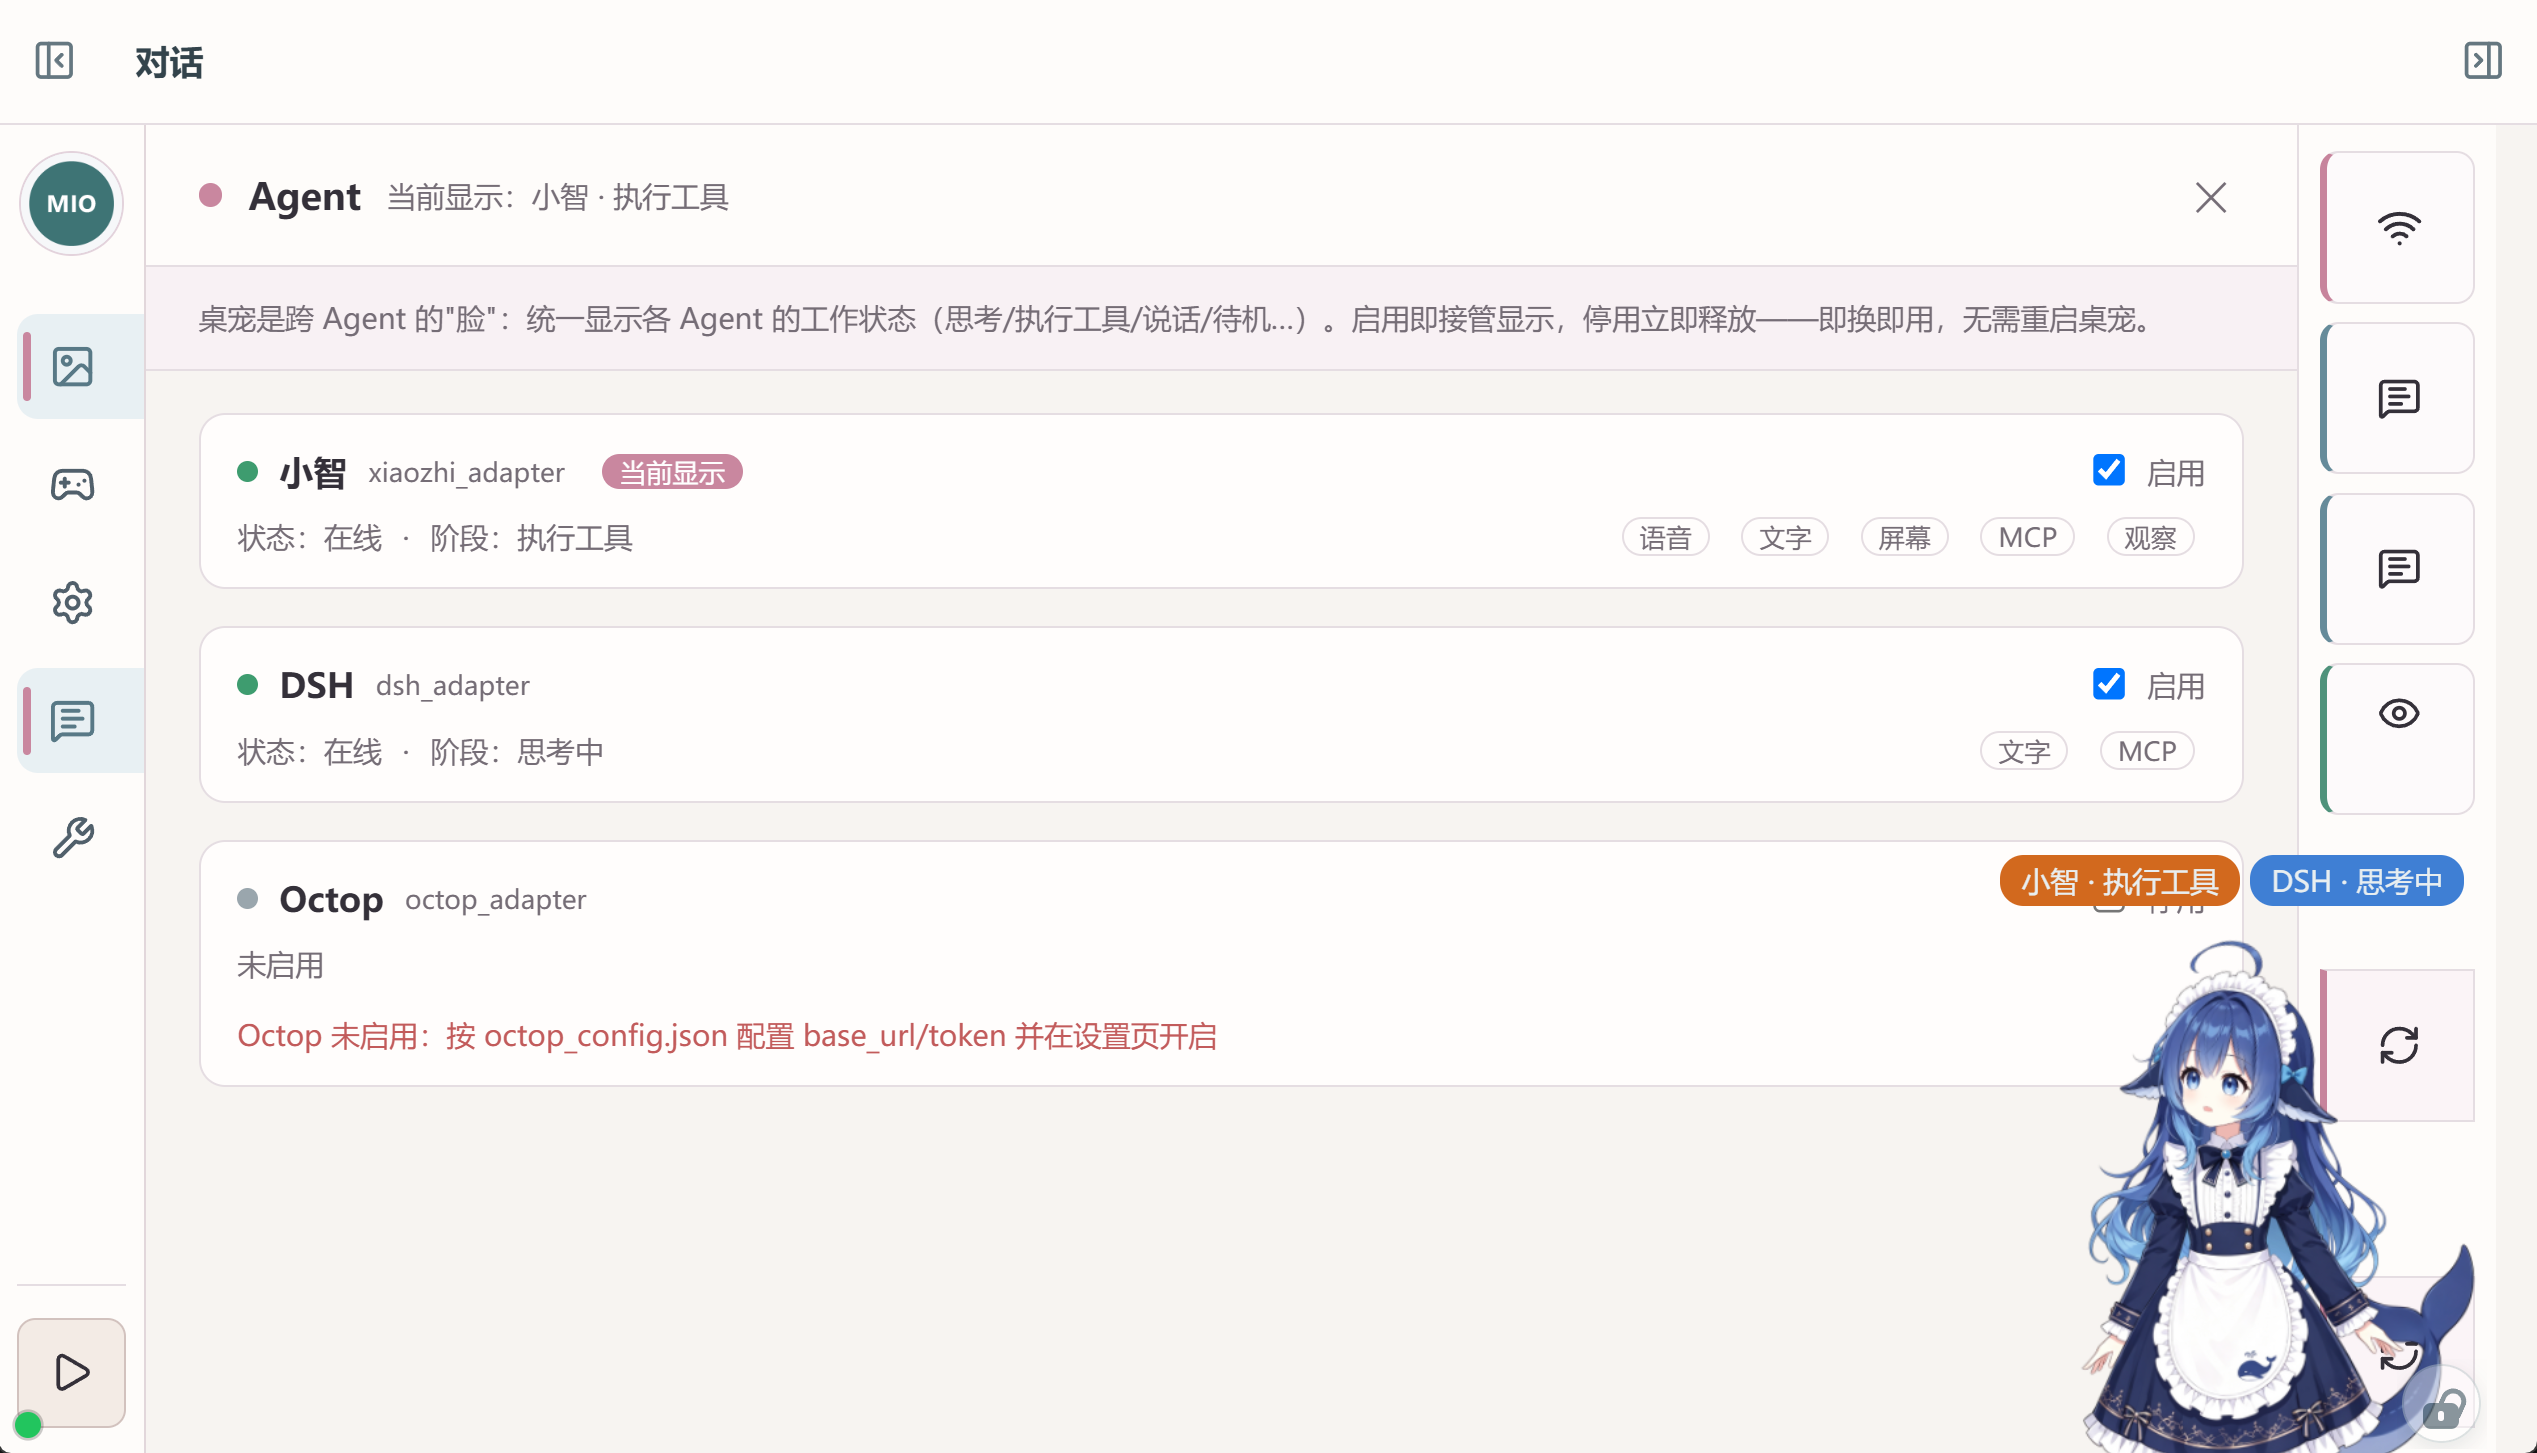
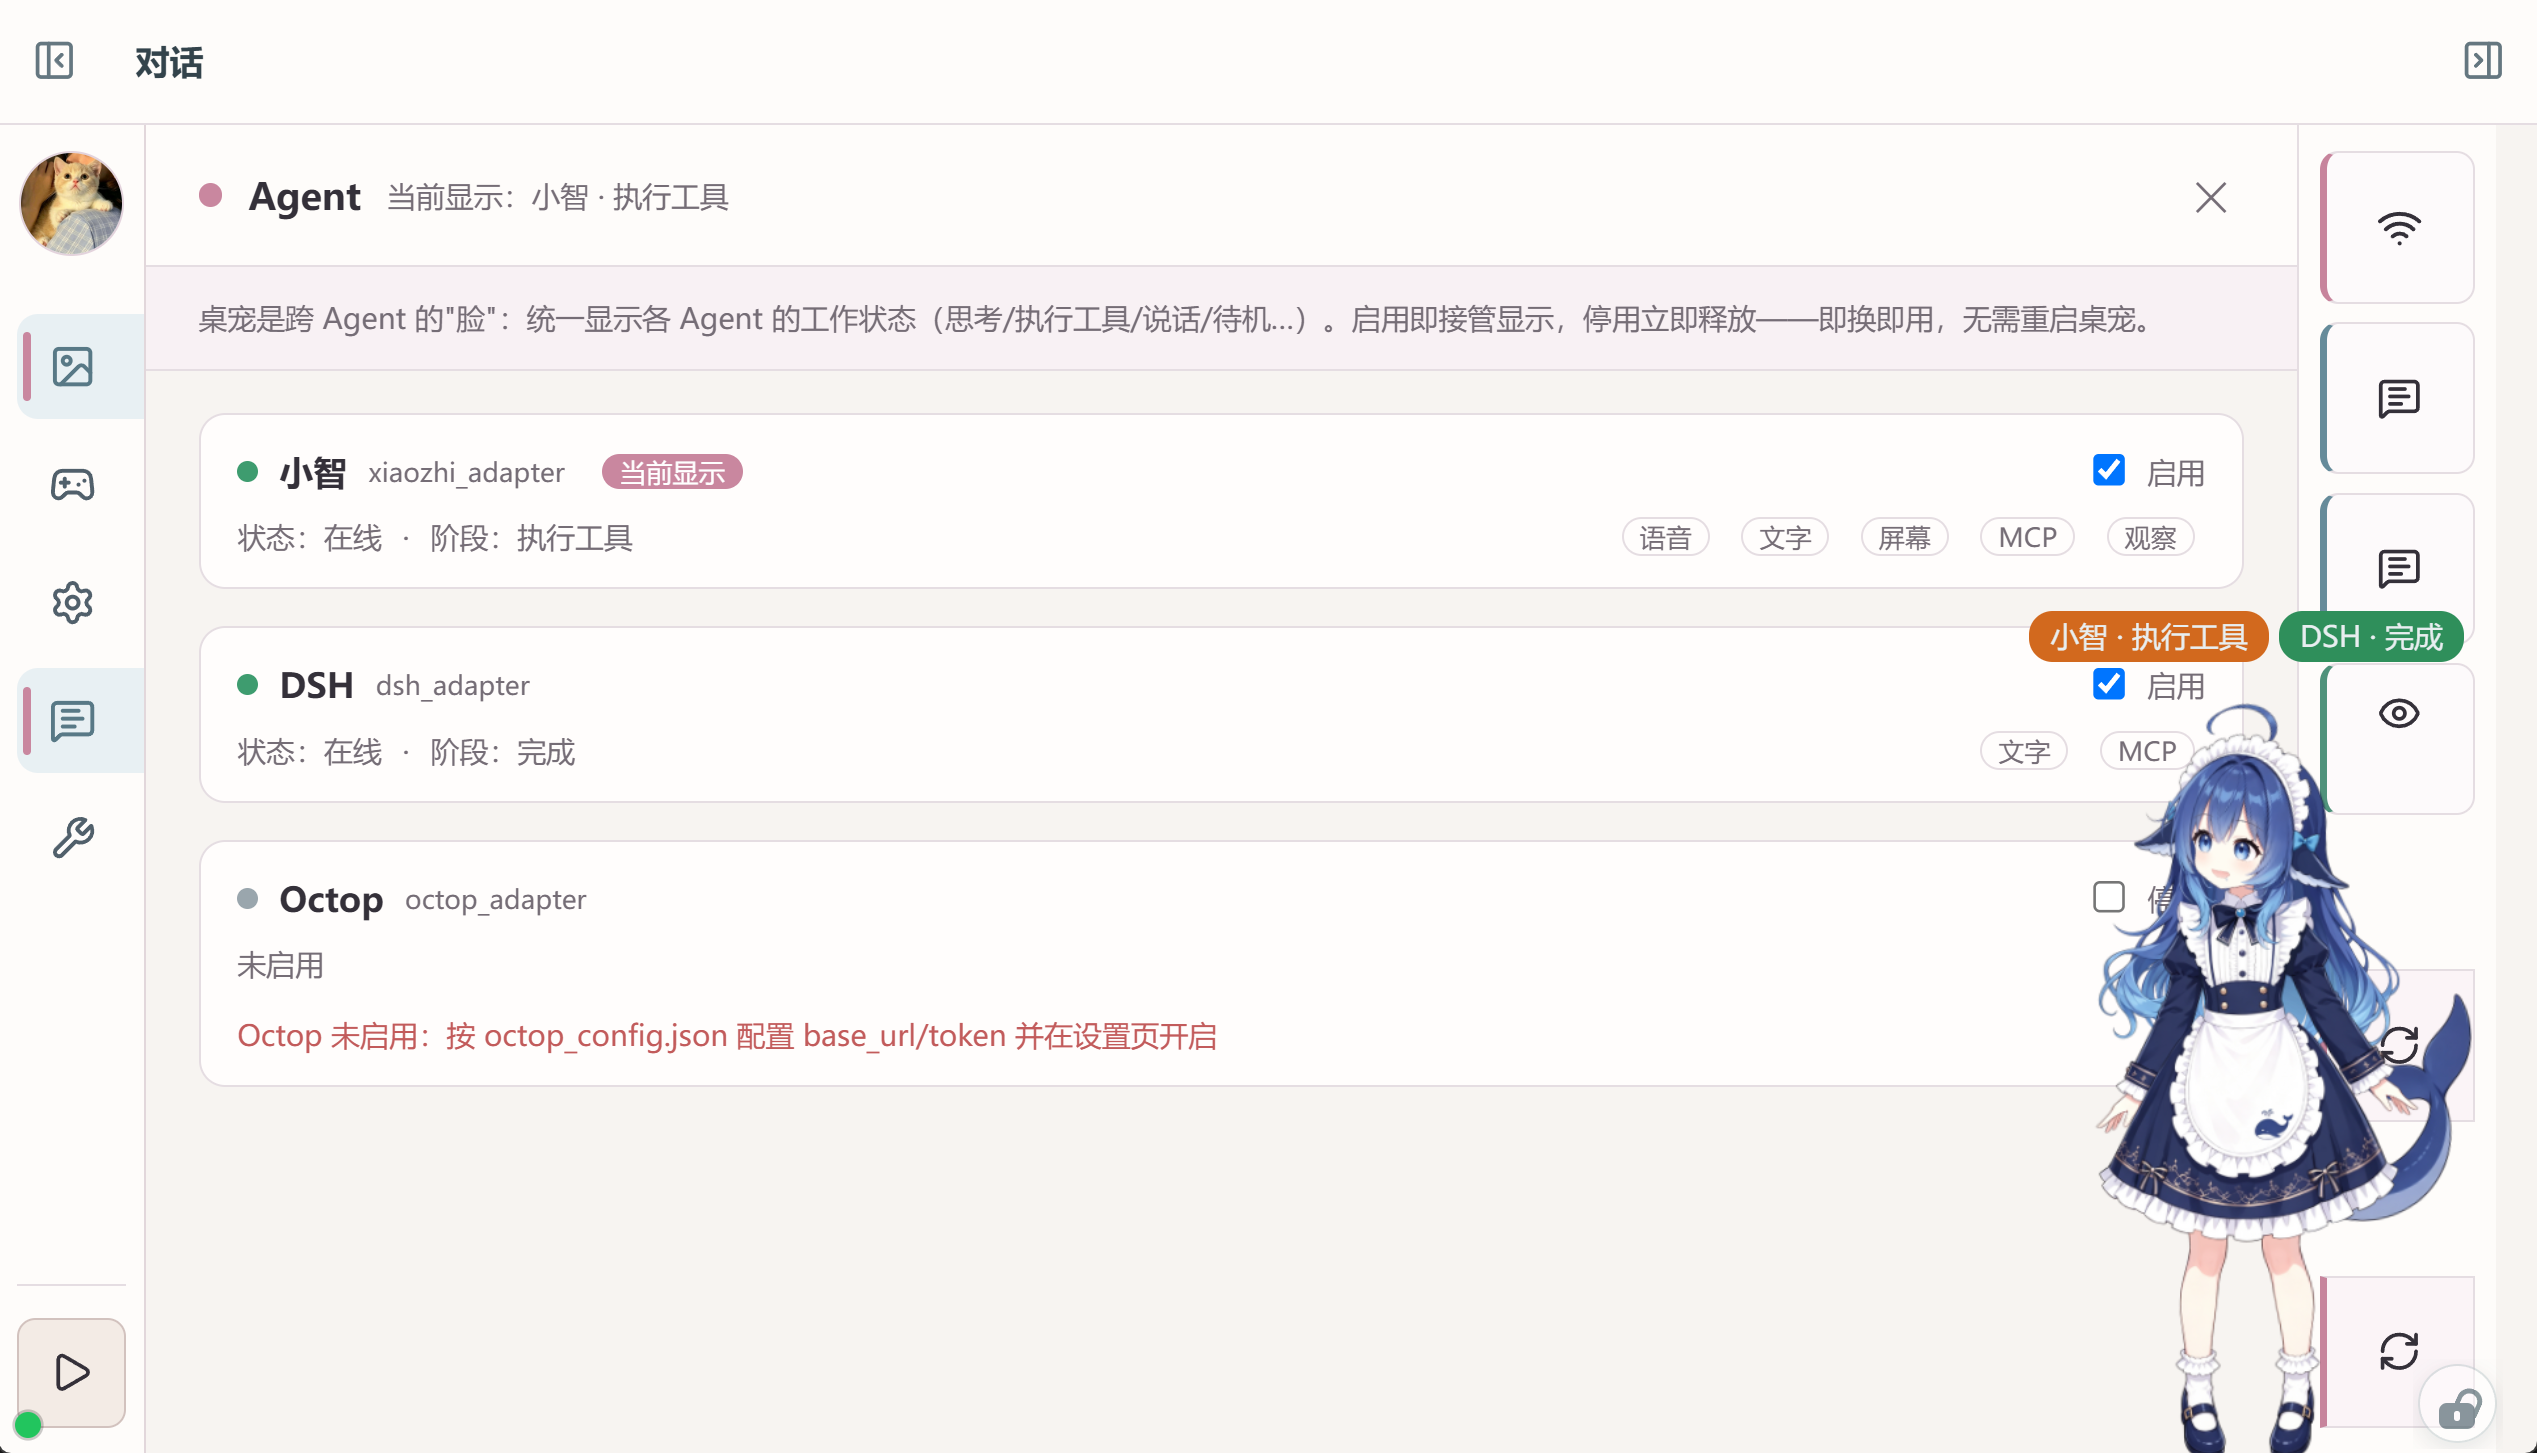
docs: 功能展示更新——Agent管理与状态徽标图替换为最新版(小智执行工具/DSH完成+关闭按钮)并置顶,描述突出'一切皆插件'(Agent即插件:一键启停/能力标签/即插即用)

Changed region(s): [[0.7785, 0.4026, 0.9965, 1.0], [0.0, 0.0929, 0.0623, 0.1858], [0.1868, 0.4955, 0.2491, 0.5265]]

diff --git a/README.md b/README.md
@@ -30,6 +30,10 @@
 
 ### 功能展示
 
+**Agent 管理与状态徽标 · 一切皆插件**（MIO 管理窗口 · Agent 页，置顶）：**一切皆插件**——每个 Agent 就是一个可插拔插件，主界面一键启用 / 停用、即插即用，停用立即释放桌宠"身体"；能力标签（语音 / 文字 / 屏幕 / MCP / 观察）一目了然，缺哪个补哪个；实时显示工作细分状态（小智·执行工具 / DSH·完成…），桌宠头顶徽标同步展示、4 秒淡出。
+
+![Agent管理与状态徽标](docs/images/Agent管理与状态徽标.png)
+
 **主聊天界面**（MIO 管理窗口 · 对话页）：与小智的完整往来记录实时显示，文字 / 图片发送、官方音色语音 + 逐句文本。
 
 ![主聊天界面](docs/images/主聊天界面.png)
@@ -45,10 +49,6 @@
 **小智工具页**（MIO 管理窗口 · 小智工具页）：本地免费 MCP 工具集中管理（视觉 / 基础 / 资讯分类），17 个工具按需开关，开启即进小智能力列表、对话中自动调用；截图提问 / 观察 / 发图不受开关影响。
 
 ![小智MCP工具设置](docs/images/小智MCP工具设置.png)
-
-**Agent 管理页 + 工作状态徽标**（MIO 管理窗口 · Agent 页）：主界面一键启用 / 停用各 Agent（即换即用、停用立即释放），实时显示工作细分状态（小智·执行工具 / DSH·思考中…），桌宠头顶徽标同步展示、4 秒淡出。
-
-![Agent管理与状态徽标](docs/images/Agent管理与状态徽标.png)
 
 ---
 
